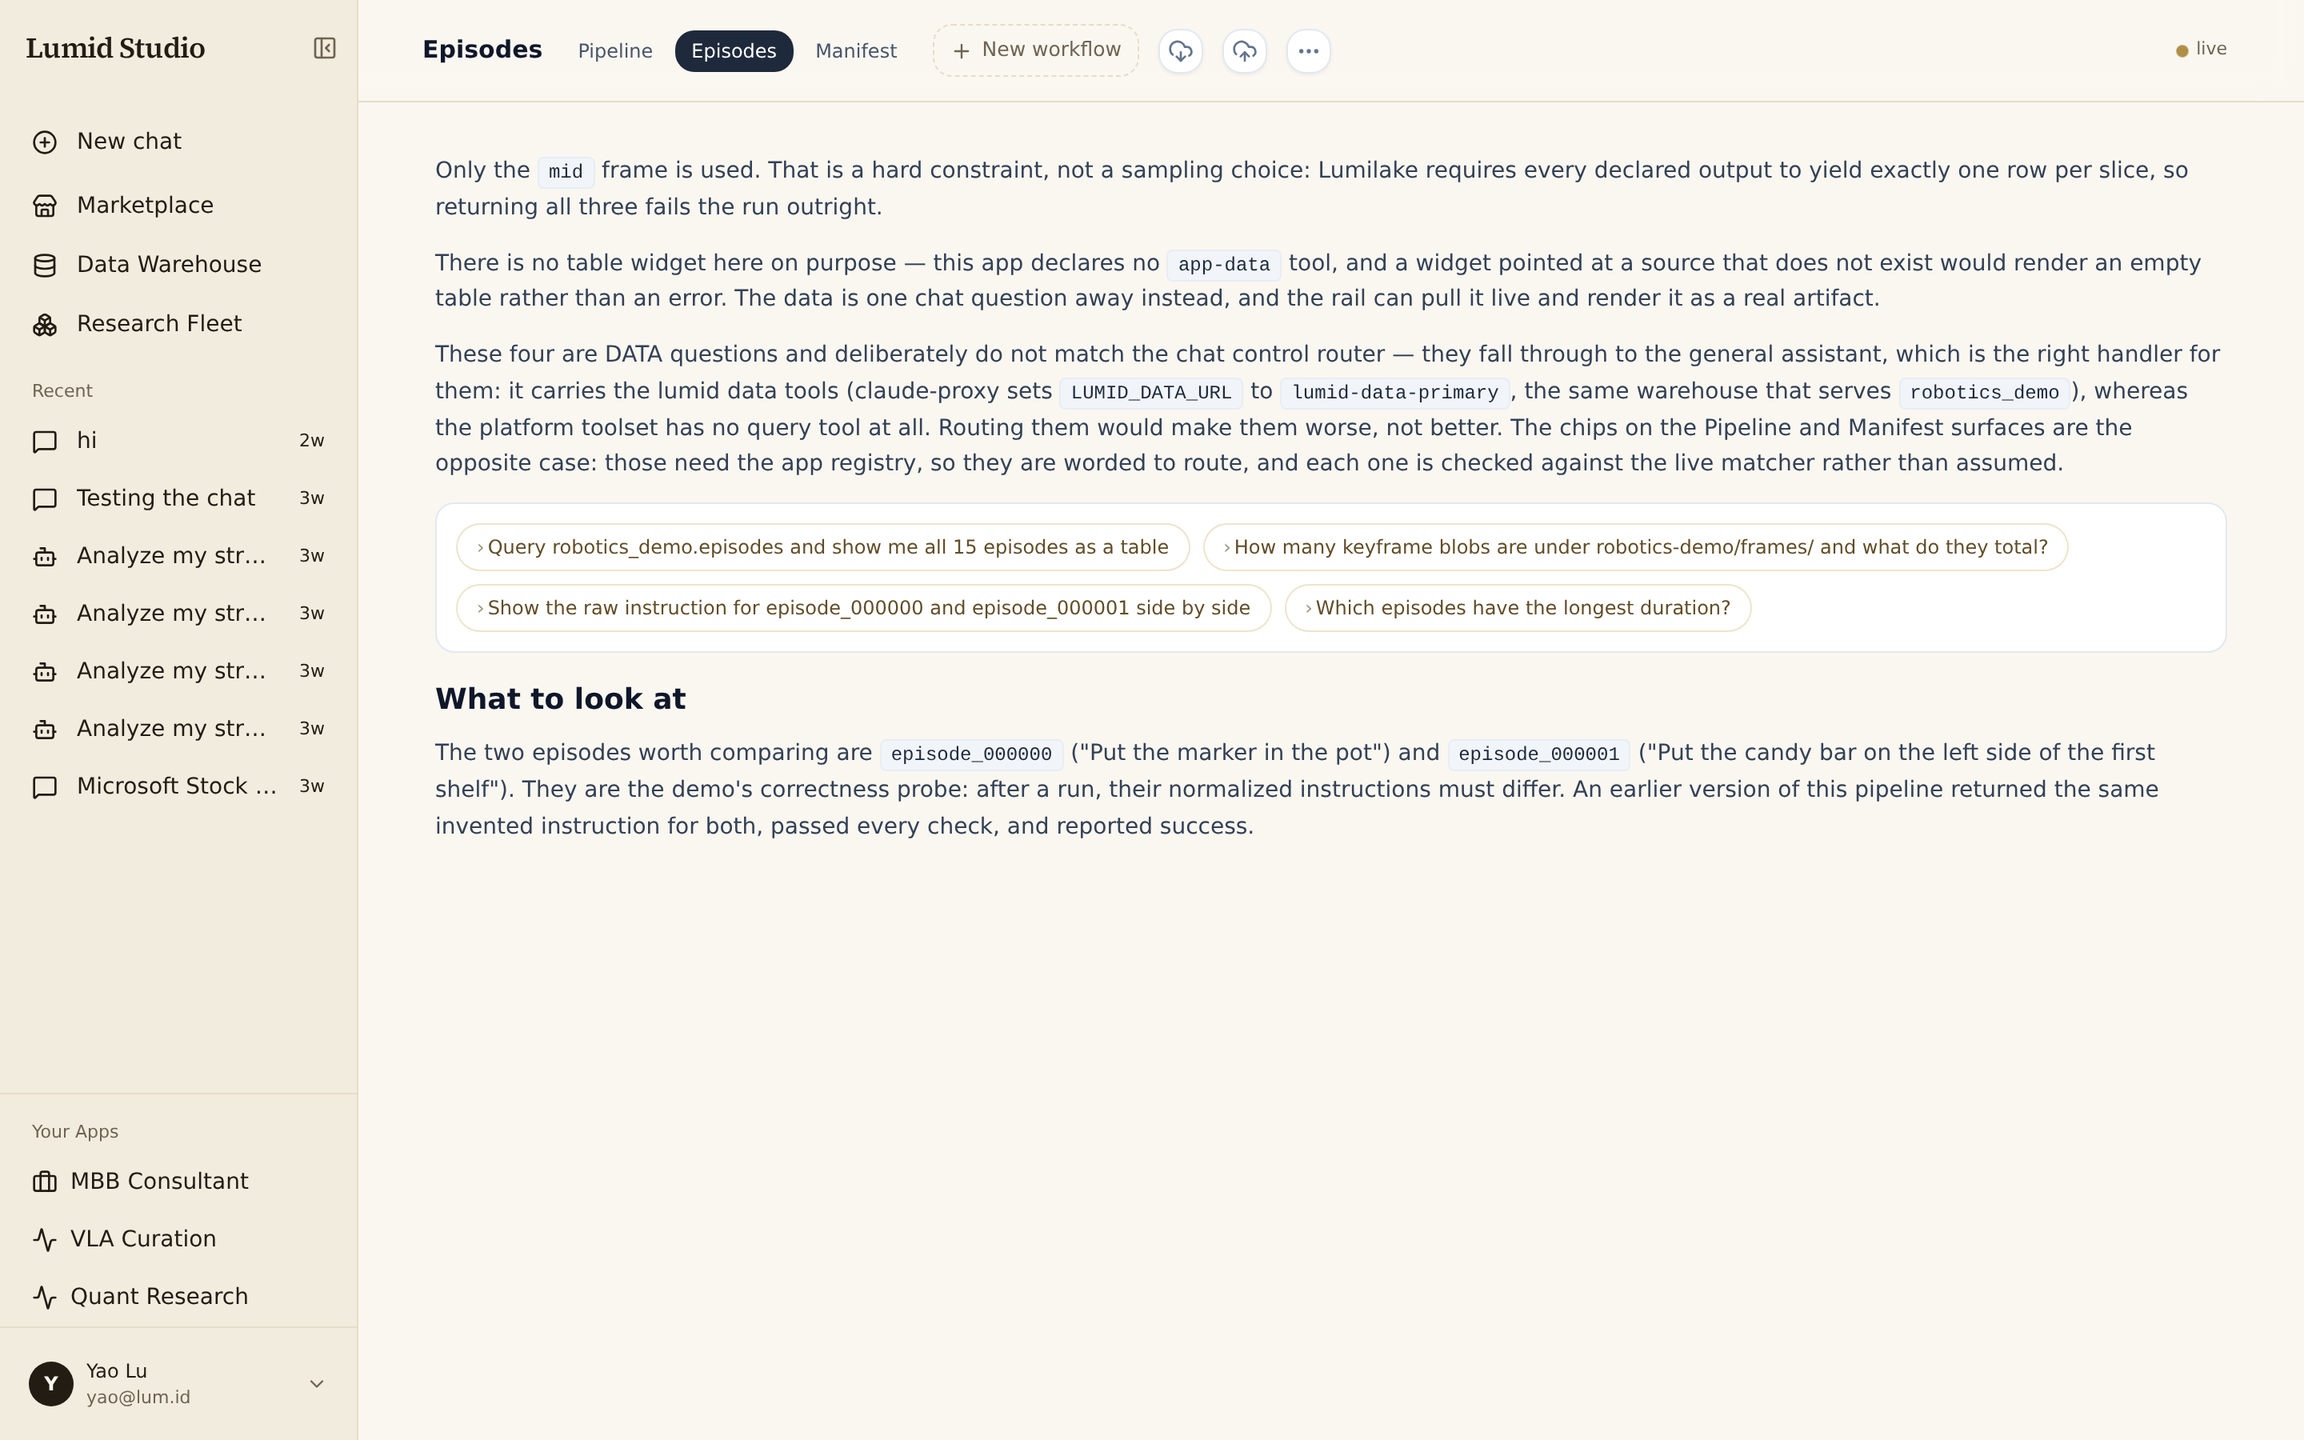
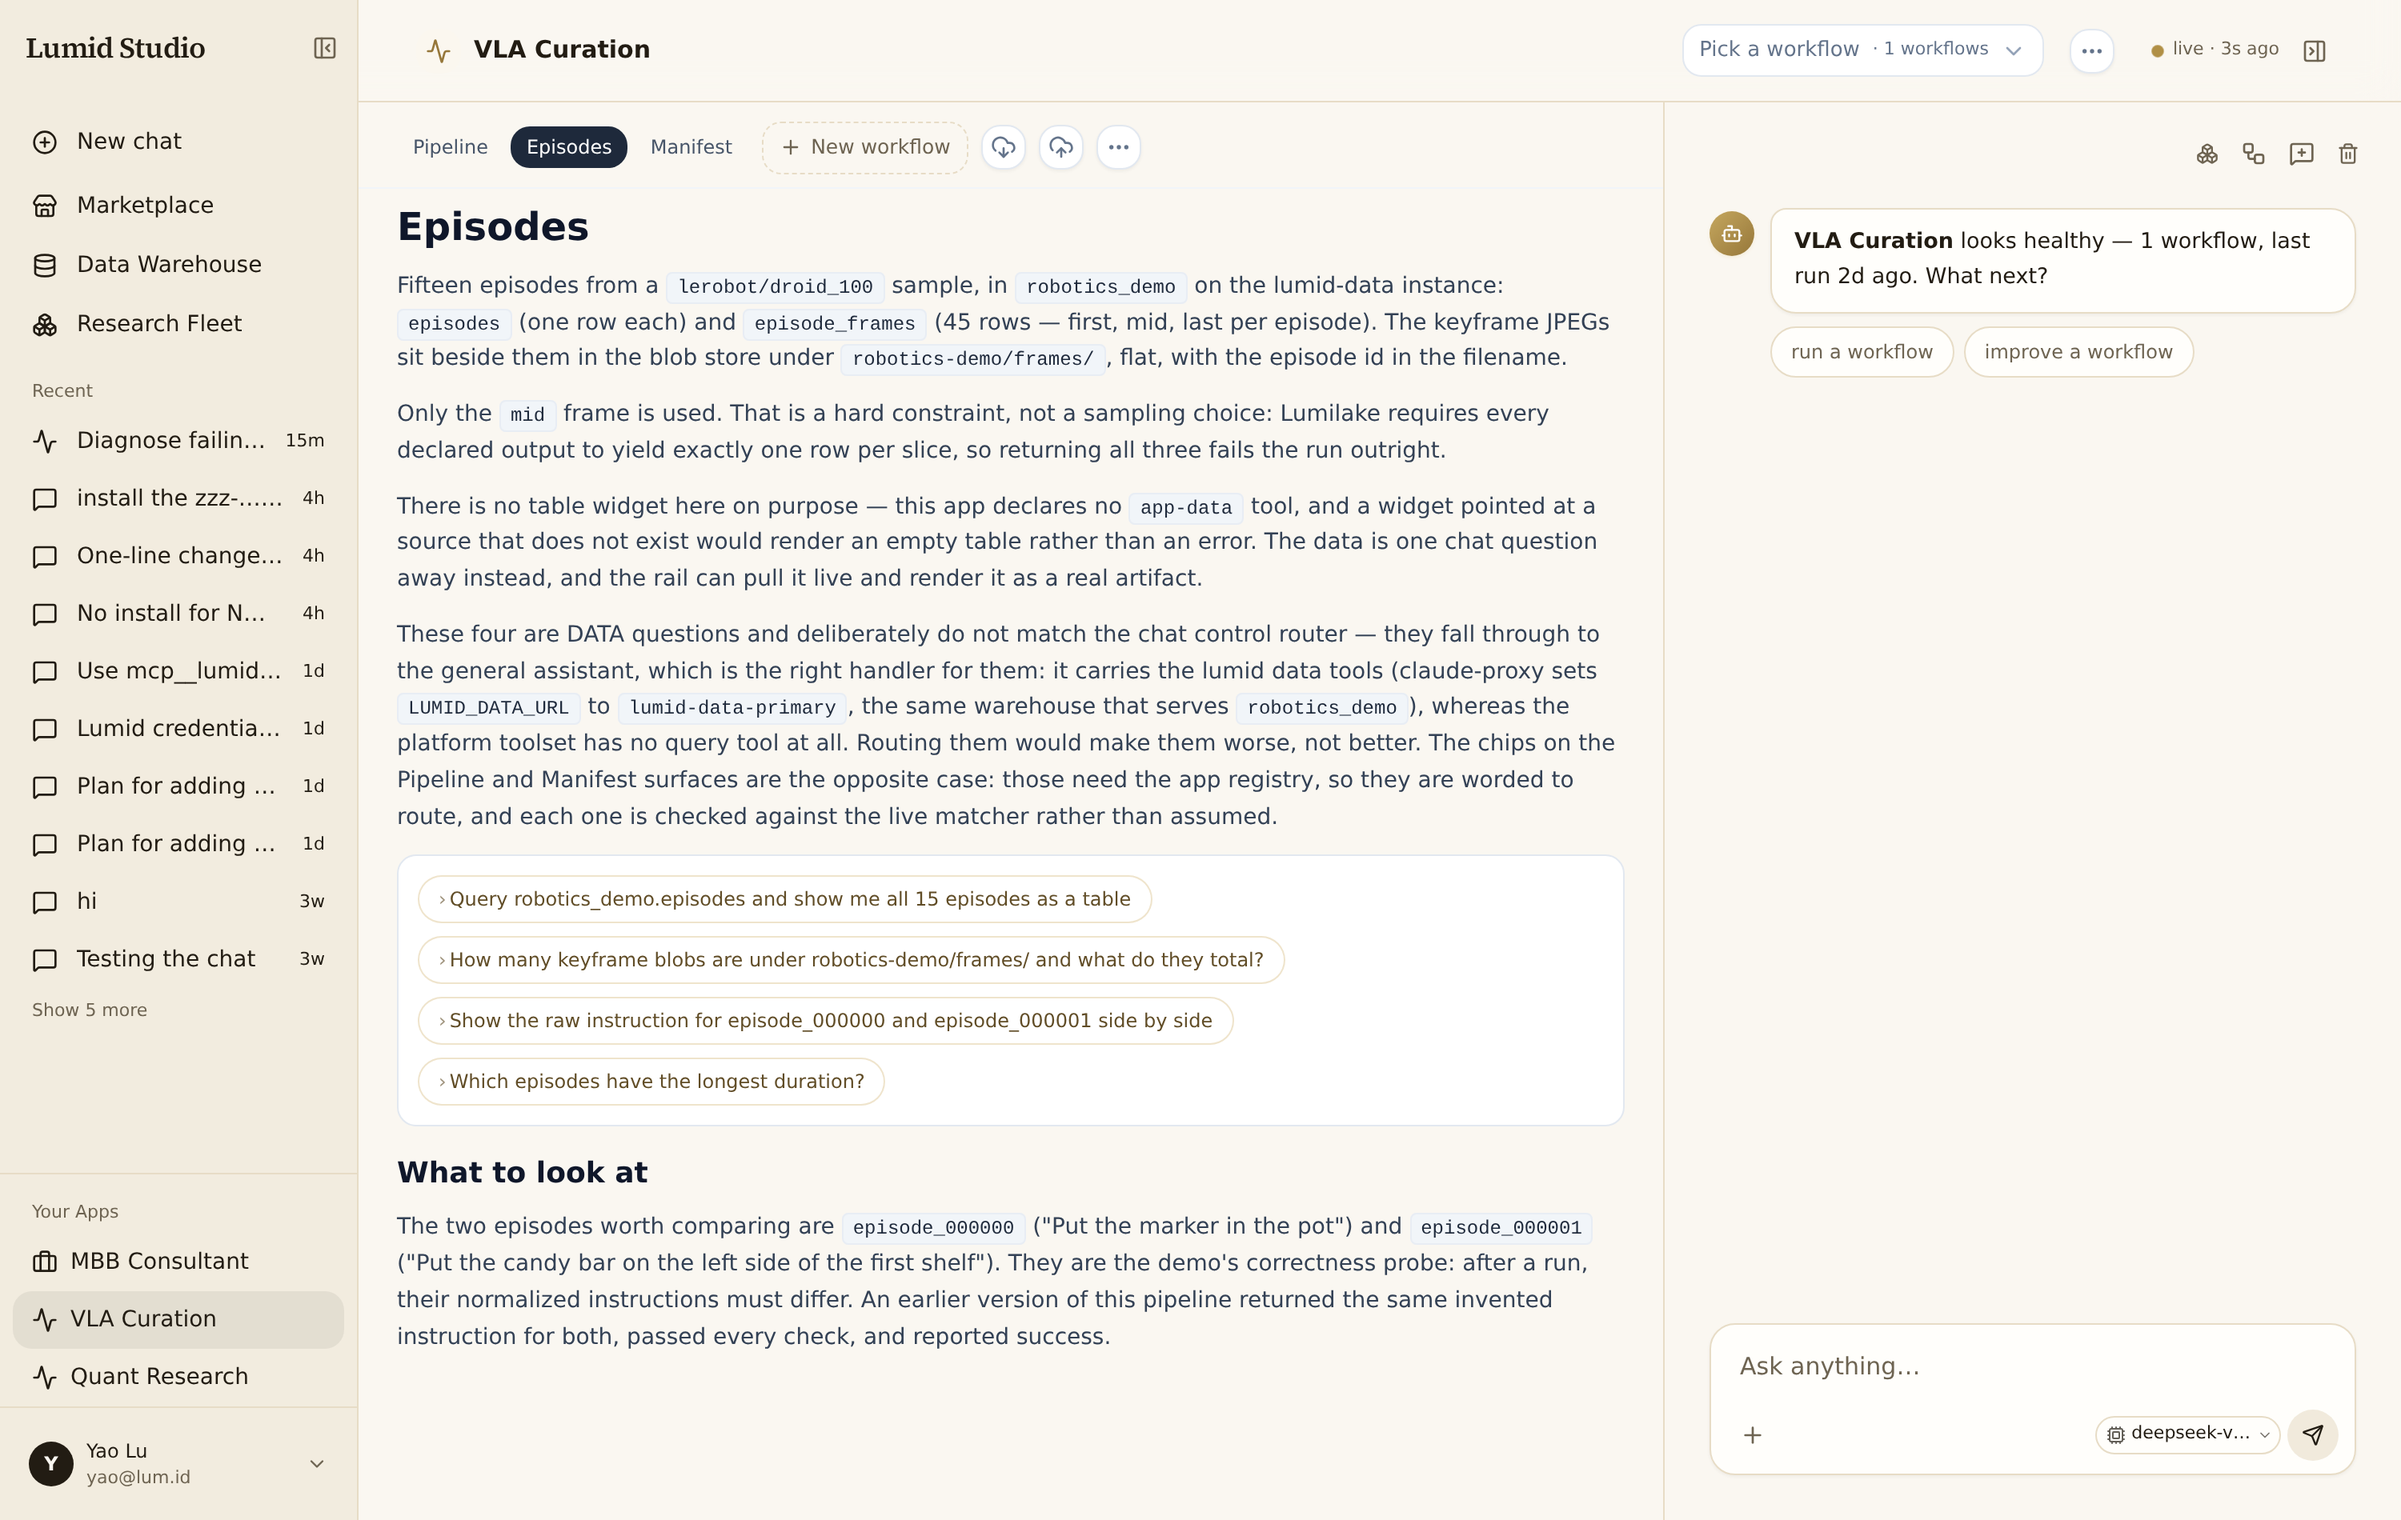
docs: re-shoot 13 stale screenshots, and fix kol_alpha
**kol_alpha.** The experiment §8 is built on had lost its rows — 0 results, 0
rows, both arms never run, and no kol_strategy runs in the store at all. Fixed
by running the arm, and the shape came back exactly as documented: 7 rows, 4
carrying real_tape, 3 generate-only rows dropped, `below min_samples (4/10)`.
The card reads `collecting · 2 arms · 1 never run · 4 results` again.

Two things learned doing it, both now in the doc. The metric only comes from
`--action poll`, and **Run this arm sends no args**, so the button alone can
only ever emit generate-stage keys — the experiment cannot reach its own metric
through the UI. And the four resolved polls are all `real_tape: 0`: none of
these backtests replayed recorded prints. That is the metric working — it gates
whether a result deserves to exist — but it is a finding about symbol and
window choice, and §8 now says so instead of quoting the old 0.33.

§8's counts are dated and flagged as a cohort rather than written as facts. The
section rotted the first time because its teaching hung on exact numbers.

**Screenshots.** Thirteen re-shot as yao@lum.id — a real non-admin — at 2x. The
batch they replace was taken as Admin, on the retired Data · Library · Scheduled
nav, with a `Sonnet ⚠` chip and a pre-Proposals tab bar. None of that is what a
reader sees, and shooting docs from an admin account is why twelve of them drifted
together.

Captions corrected where the new shot would not keep the old promise:
[…]

diff --git a/public/docs/workflows.md b/public/docs/workflows.md
@@ -123,7 +123,7 @@ tenants before it existed.
 
 Open a workflow row to see what a run produced.
 
-![A workflow's detail: Metric & arms, the Outputs tier, and the run tree.](/docs/img/experiments-workflows.png)
+![KOL strategy's detail: kol_alpha under Metric & arms with its `why below min_samples (4/10)`, the Outputs tier reporting that the last run recorded no artifact, and the run tree.](/docs/img/experiments-workflows.png)
 
 - **Metric & arms** — the experiment this loop feeds, in place, so a result is
   never in only one of the two tabs.
@@ -352,16 +352,12 @@ An experiment reports what you declared. Reading it is still your job.
 parameterization survives recorded market history. Same machinery, and almost
 nothing else in common with the one above.
 
-![kol_alpha on the Experiments tab — collecting, 2 arms with 1 never run, 3 results.](/docs/img/experiments-kol.png)
+![kol_alpha on the Experiments tab — collecting, 2 arms with 1 never run, 4 results.](/docs/img/experiments-kol.png)
 
-> **Measured 2026-09-20 — the card no longer reads this way.** `kol_alpha` now
-> reports `results_total: 0`, `n_rows_total: 0` and `arms_never_run: [current,
-> musk_v1]`, and `kol_strategy` has no rows at all in the run store. The rows
-> the rest of this section reads off — 14 in the ledger, 3 carrying
-> `real_tape` — are gone, and re-running the arms is what would bring them
-> back. The walkthrough below is kept because the *shape* it teaches is the
-> point: a partial metric drop is the common case and the hardest to see. Read
-> it as a worked example, not as what you will find on the card today.
+The counts below are from a cohort measured **2026-09-21**; an earlier cohort
+this section was written against had been lost, and re-running `musk_v1`
+rebuilt it. Expect your own numbers to differ — what is stable is the *shape*,
+and the shape is the lesson.
 
 **Its metric is a gate, not a score.** `real_tape` is `1` or `0`: did this
 backtest replay real market history with all three axes real? *"Higher is
@@ -378,12 +374,12 @@ that before anything measures how good it is.
 | `generate` | `generated`, `compiled`, `lean` |
 | `poll` | `real_tape`, `all_axes_real`, `prints_replayed` |
 
-### Why it says 3 results when the ledger holds 14
+### Why the results count is below the row count
 
-Eleven of those rows came from `generate` and carry none of the declared metric,
-so `evaluate()` skips them. That is correct — and the card says it now: the
-results chip reads **`3 of 14 rows`**, and hovering it lists the keys those rows
-do carry. Until recently only the *all*-zero case was explained, so a partial
+Only `poll` emits the declared metric, so every `generate` row carries none of
+it and `evaluate()` skips them. That is correct — and the card says so: the
+results chip reads **`4 of 7 rows`** on the cohort above, and hovering it lists
+the keys the dropped rows *do* carry. Until recently only the *all*-zero case was explained, so a partial
 drop like this one was invisible; across the estate 364 of 1,558 rows are in
 that position. Ask the app and you get the same list:
 
@@ -401,11 +397,16 @@ Two reasons, both visible on the card:
 
 ```
 success_criteria:  best_n >= 10 and delta_pp >= 0
-best_n = 3         2 arms · 1 never run
+best_n = 4         2 arms · 1 never run
 ```
 
-- **Not enough resolved polls.** Three rows carry `real_tape` — `1`, `0`, `0`,
-  a mean of 0.33. One backtest replayed 12,378 real prints; two replayed none.
+- **Not enough resolved polls.** Four rows carry `real_tape`, all of them `0` —
+  a mean of 0.00, and the card says `below min_samples (4/10)`. None of these
+  backtests replayed recorded prints at all, which is the metric doing its job:
+  it is a gate on whether a result deserves to exist, and right now it is
+  answering no. That is a finding about the strategy's symbol and window
+  choice, not a fault in the experiment — and it is the exact question
+  `backtest_evidence` exists to isolate.
 - **The baseline arm cannot run.** `baseline: {arm: current}` names `current`,
   the hand-submitted reference, and `current` declares nothing but an id and a
   description — there is no configuration for a dispatch to vary, which is why
@@ -580,8 +581,10 @@ schema's own help. Required fields are marked. An unknown node kind falls back
 to editing that node's YAML subtree directly, so a node type we do not have a
 schema for is still editable rather than a dead end.
 
-**Run** — that node's last run: duration, output, error. Present only when a
-run overlay is loaded.
+**Run** — that node's last run: duration, output, error. The tab is always
+there; without a run overlay it says *"This node has not run in the selected
+cycle."* rather than disappearing, so a node you expected results for tells you
+it has none instead of silently offering one tab fewer.
 
 **YAML** — the document, scoped to *this node*, read-only. It is there so you
 can see exactly what the form is writing; edit in the form, or in the page's

diff --git a/public/docs/first-run.md b/public/docs/first-run.md
@@ -499,7 +499,7 @@ row.
 
 Backtest results — read the three labels *before* the P&L, every time:
 
-![Workflows → Backtest: the run tree, its datasets (musk_tweets_v1, tape_covered_v1), and Metric & arms below.](/docs/img/first-run-backtest-result-2.png)
+![Workflows → Backtest: Metric & arms at the top (both experiments this loop feeds), the Outputs tier, its dataset tape_covered_v1, and the run tree.](/docs/img/first-run-backtest-result-2.png)
 
 Forward-test scorecards from the live paper arm:
 
@@ -509,7 +509,7 @@ And the **Analyze** loop, which is the decision funnel rather than P&L —
 proposed, submitted, rejected, and the top reject reason. This is where you
 look when a strategy is registered but nothing is happening:
 
-![Workflows → Analyze: the decision funnel — proposed, submitted, rejected, and the top reason.](/docs/img/first-run-runtime-2.png)
+![Workflows → Analyze: a loop with no metric, so the card says it is not an experiment and offers to make it one. Its datasets, its Outputs tier, and one run on the tree.](/docs/img/first-run-runtime-2.png)
 
 ## 8. Reading a backtest result
 
